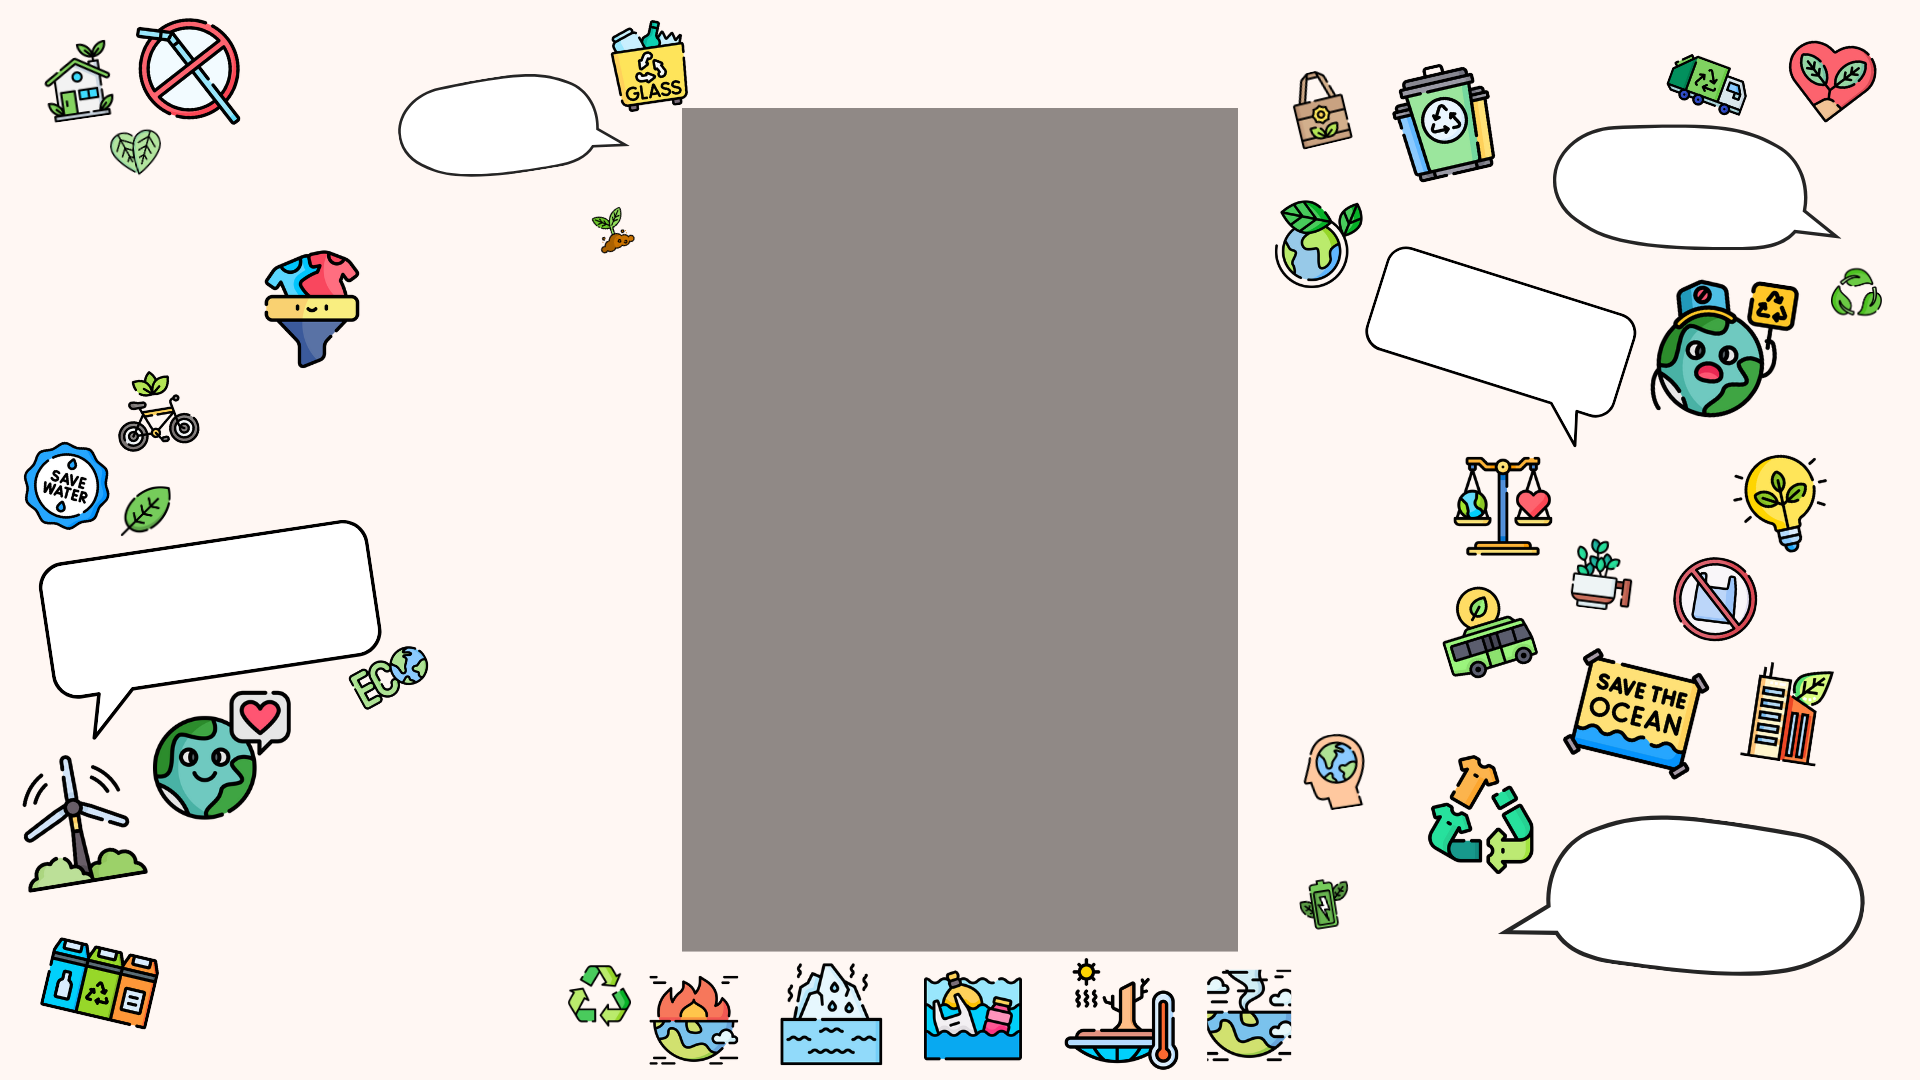
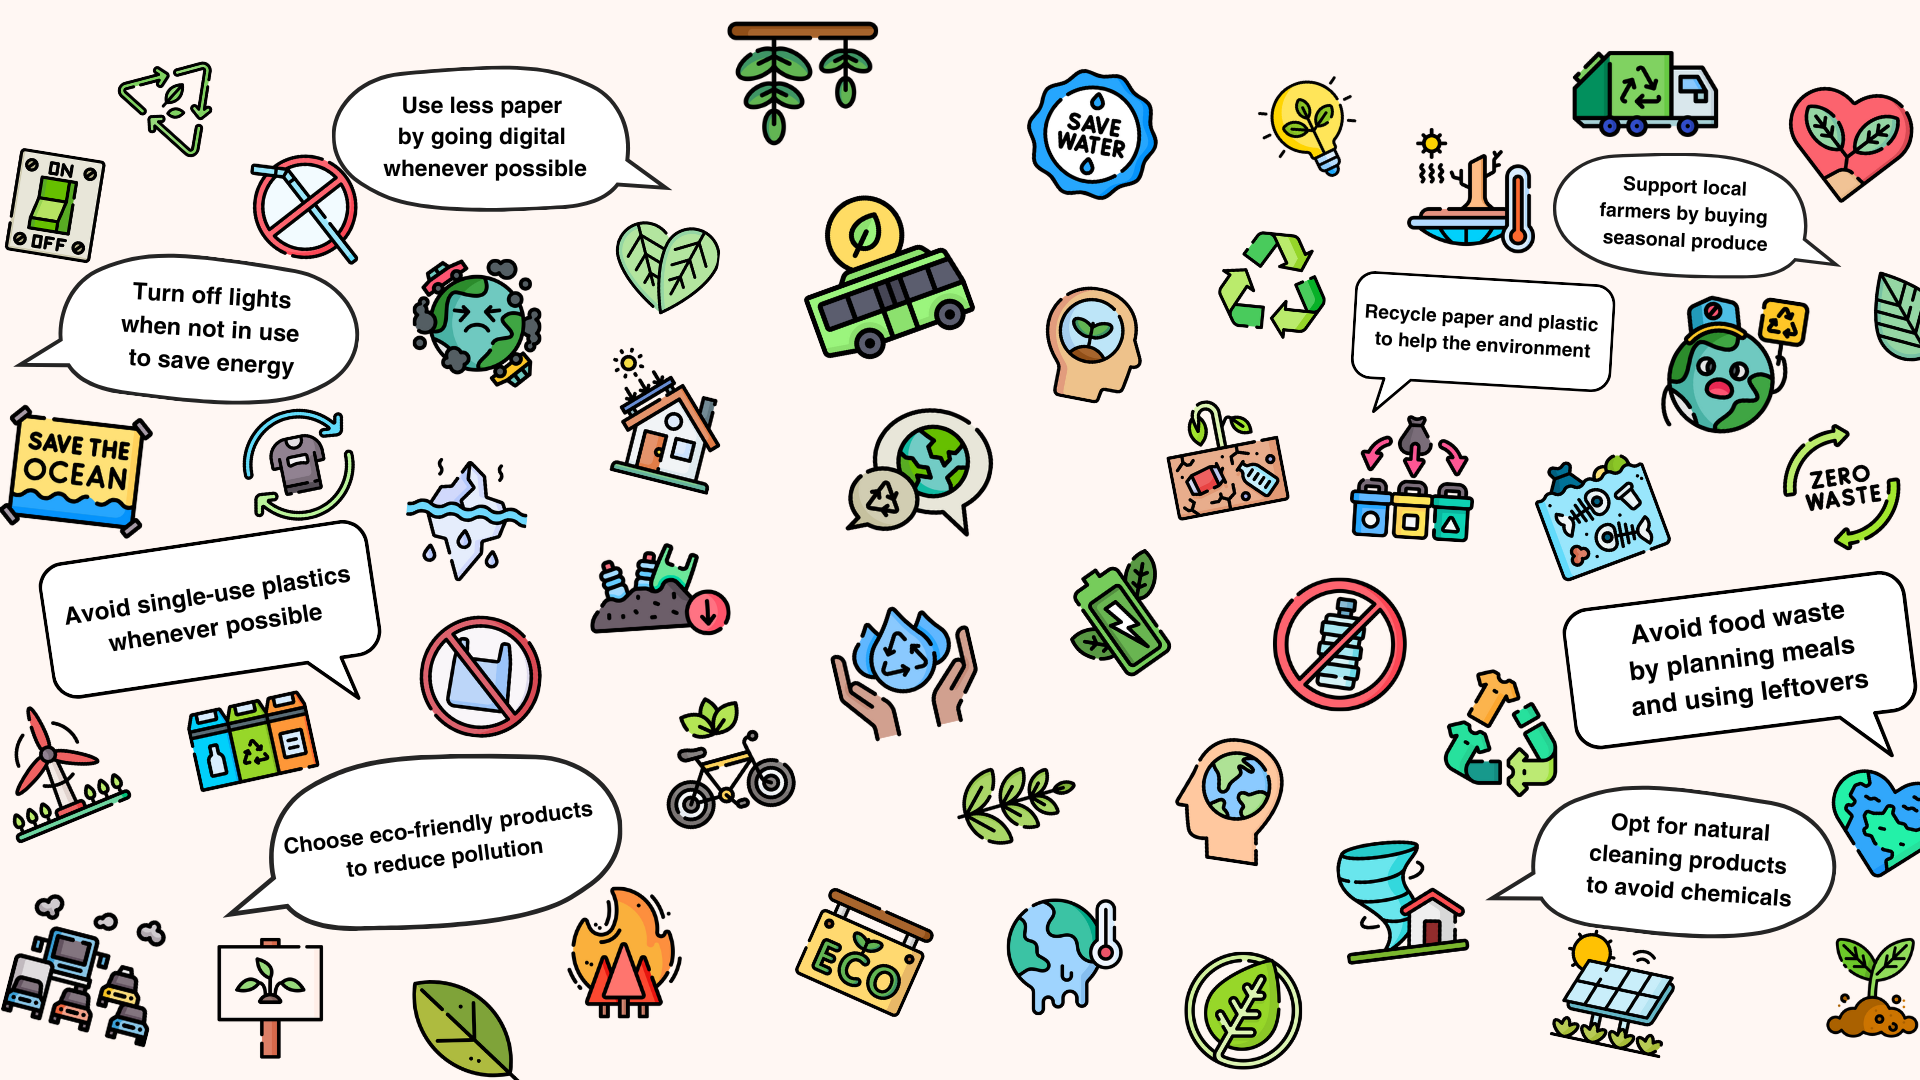
made some changes

diff --git a/src/App.css b/src/App.css
@@ -1,4 +1,4 @@
-/* Общий стиль страницы */
+/* Main */
 body {
   background-image: url('./assets/background.png');
   background-position: center; 
@@ -14,11 +14,12 @@ body {
   height: 100vh;
 }
 
-/* Заголовки */
+/* Headers */
 h1 {
   text-align: center;
-  font-size: 2em;
-  color: #97da7b;
+  font-size: 2.5em;
+  margin: 5px;
+  color: #fff7f3;
   -webkit-text-stroke: 2px black;
 }
 
@@ -27,7 +28,7 @@ h2 {
   font-size: 1em;
 }
 
-/* Контейнер для формы и списка задач */
+/* Form and list container */
 .todo-container {
   width: 100%;
   max-width: 480px;
@@ -42,7 +43,7 @@ h2 {
   align-items: center;
 }
 
-/* Форма добавления задачи */
+/* Add form */
 form {
   display: flex;
   flex-direction: row;
@@ -50,7 +51,7 @@ form {
   width: 400px;
 }
 
-/* Поле ввода */
+/* Input field */
 input {
   padding: 8px;
   border: 2px solid black;
@@ -61,7 +62,7 @@ input {
   background-color:#97da7b;
 }
 
-/* Контейнер для кнопок */
+/* Buttons container */
 .button-container {
   display: flex;
   justify-content: flex-end;
@@ -69,29 +70,31 @@ input {
   margin-bottom: 10px;
 }
 
-/* Список задач */
+/* List */
 ul {
   list-style-type: none;
   padding: 0;
   margin: 0;
-  width: 100%;
+  width: 99%;
 }
 
-/* Элемент списка */
+/* List elements*/
 li {
   display: flex;
   justify-content: space-between;
   align-items: center;
   padding: 8px;
-  border: 2px solid black;
+  margin: 8px 5px;
+  outline: 2px solid black;
   border-radius: 5px;
   background-color: #97da7b;
   font-size: 0.85em;
+  font-weight: bold;
   width: 400px;
   box-sizing: border-box;
 }
 
-/* Иконки для кнопок */
+/* Sort-button */
 .icon-button {
   cursor: pointer;
   width: 40px; 

diff --git a/src/App.jsx b/src/App.jsx
@@ -102,34 +102,33 @@ function App() {
       <Route
         path="/todos"
         element={
-          <>
-            <h1>Eco Actions</h1>
+          <div className="todo-container">
+            <h1>Green Impact</h1>
             {error ? (
               <p>Error: {error}</p>
             ) : (
-              <div className="todo-container">
+              <>
                 <AddTodoForm
                   onAddTodo={addTodo}
                   todoTitle={todoTitle}
                   handleTitleChange={handleTitleChange}
                 />  
                 <div className="sort-container">
-                <img
-                  src={sortOrder === 'asc' ? azIcon : zaIcon}
-                  alt="Sort Order"
-                  onClick={toggleSortOrder}
-                  className="icon-button"
-                />
-              </div>
-              
-              <TodoList todoList={todoList} onRemoveTodo={removeTodo} />
-            </div>
-          )}
-        </>
-      }
-    />
-  </Routes>
-);
-}
+                  <img
+                    src={sortOrder === 'asc' ? azIcon : zaIcon}
+                    alt="Sort Order"
+                    onClick={toggleSortOrder}
+                    className="icon-button"
+                  />
+                </div>
+                <TodoList todoList={todoList} onRemoveTodo={removeTodo} />
+              </>
+            )}
+          </div>
+        }
+      />
+    </Routes>
+  )
+};
 
 export default App;

diff --git a/src/components/HomePage.module.css b/src/components/HomePage.module.css
@@ -1,37 +1,38 @@
-/* Общий контейнер для страницы */
+/* Main Container */
 .homeContainer {
   text-align: center;
   padding: 20px;
-  background-color: #fff7f3;
+  background-color: #71aa52;
+  border: 2px solid black;
   border-radius: 10px;
   box-shadow: 4px 4px 10px rgba(0, 0, 0, 0.1);
 }
 
-/* Заголовок страницы */
+/* Header */
 .heading {
   font-size: 2.5rem;
-  color: #71aa52; 
+  color: #fff7f3; 
   -webkit-text-stroke: 2px black;
 }
 
-/* Параграф с описанием */
+/* Paragraph */
 .paragraph {
-  font-size: 1.2rem;
+  font-size: 1rem;
+  font-weight: bold;
   margin-bottom: 20px;
 }
 
-/* Кнопка с эффектами */
+/* Button */
 .button {
   padding: 10px 20px;
   font-size: 1.1rem;
-  background-color: #71aa52; 
+  background-color: #97da7b; 
   border: 2px solid black;
   cursor: pointer;
   border-radius: 5px;
-  transition: background-color 0.3s;
+  transition: transform 0.2s ease-in-out; 
 }
 
-/* Эффект при наведении на кнопку */
 .button:hover {
-  background-color: #97da7b;
+  transform: scale(1.13);
 }

diff --git a/src/components/AddTodoForm.jsx b/src/components/AddTodoForm.jsx
@@ -16,7 +16,7 @@ function AddTodoForm({ onAddTodo, todoTitle, handleTitleChange, isLoading }) {
 
     return (
         <div>
-            <h2>Add Sustainable Action:</h2>
+            <h2>Add Eco Task:</h2>
             <form onSubmit={handleAddTodo}>
                 <InputWithLabel
                     id="todoTitle" 

diff --git a/src/components/AddTodoForm.module.css b/src/components/AddTodoForm.module.css
@@ -1,4 +1,3 @@
-/* Пример для другой иконки, например, для кнопки "Add" */
 .AddButton {
     background: none;
     border: none;
